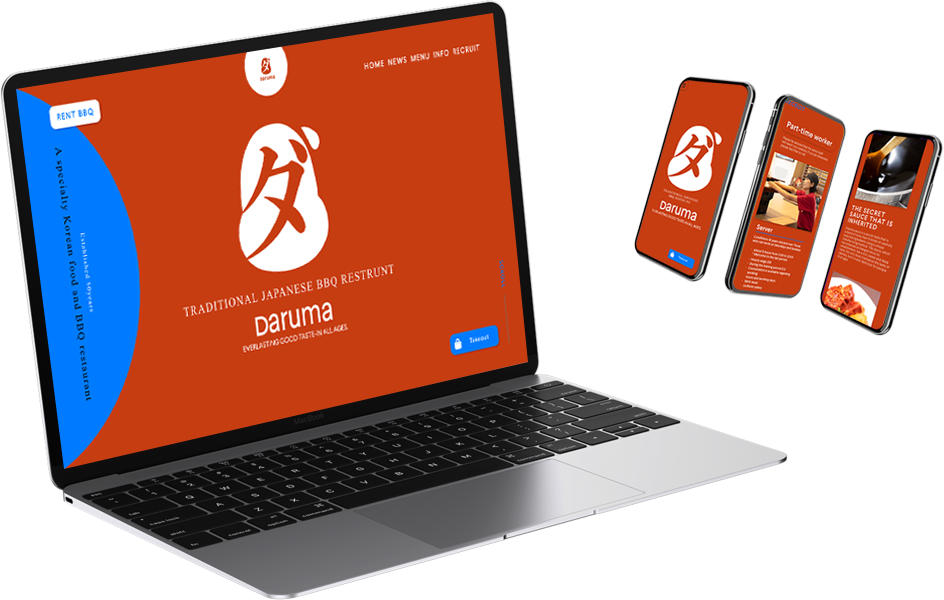
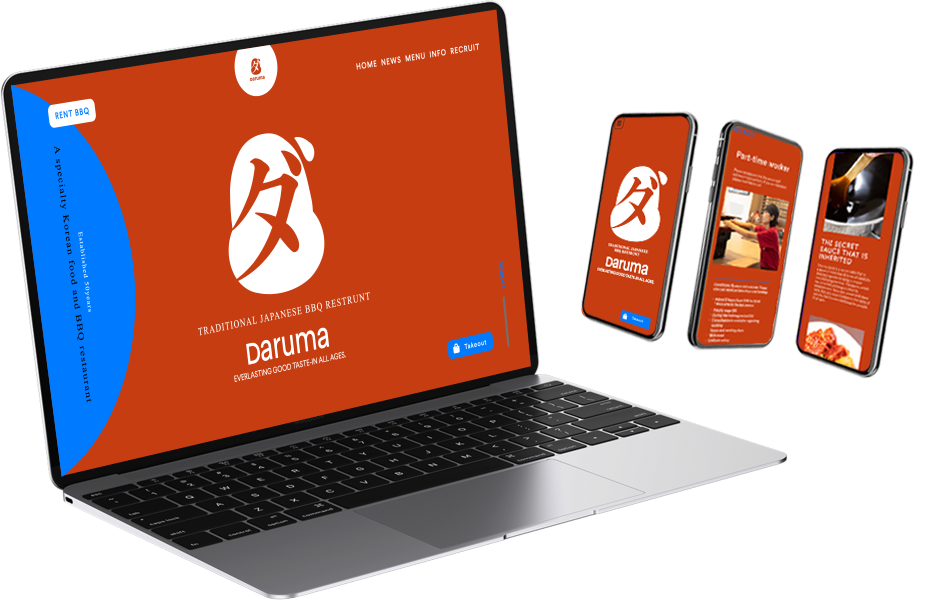
refine for responsible

diff --git a/portfolio/src/components/TitleSection/TitleElements.js b/portfolio/src/components/TitleSection/TitleElements.js
@@ -19,11 +19,12 @@ export const TitleContainer = styled.div`
   }
 
   @media screen and (max-width: 970px) {
-    height: 1100px;
+    height: 100vh;
   }
 
   @media screen and (max-width: 540px) {
-    height: 100vh;
+    margin-bottom: 10rem;
+    height: 50vh;
   }
 `;
 
@@ -48,6 +49,14 @@ export const ImageContent = styled.div`
 export const Image = styled.img`
   max-width: 70%;
   height: auto;
+
+  @media screen and (max-width: 970px) {
+    max-width: 75%;
+  }
+
+  @media screen and (max-width: 520px) {
+    max-width: 85%;
+  }
 `;
 
 export const H1Content = styled.div`
@@ -104,21 +113,21 @@ export const PContent = styled.div`
 `;
 
 export const TitleP = styled.p`
-  color: #010606;
-  letter-spacing: 0.05em;
+  color: #888888;
+  letter-spacing: 0.1em;
   margin-left: auto;
   font-size: 24px;
   font-weight: 300;
   text-align: left;
-  max-width: 525px;
+  max-width: 500px;
 
   @media screen and (max-width: 970px) {
     font-size: 16px;
-    max-width: 350px;
+    max-width: 285px;
   }
 
   @media screen and (max-width: 520px) {
     font-size: 14px;
-    max-width: 200px;
+    max-width: 190px;
   }
 `;

diff --git a/portfolio/src/components/PicDaruma/PicDarumaElements.js b/portfolio/src/components/PicDaruma/PicDarumaElements.js
@@ -1,9 +1,5 @@
 import styled from "styled-components";
 
-export const Image = styled.img`
-  width: 45%;
-`;
-
 export const PicDarumaContainer = styled.div`
   height: 800px;
   display: flex;
@@ -11,8 +7,28 @@ export const PicDarumaContainer = styled.div`
   justify-content: center;
   align-items: center;
   background: #47a0ff;
-  
-  @media screen and (max-width: 768px) {
-    height: 100vh;
+
+  @media screen and (max-width: 970px) {
+    height: 80vh;
+  }
+
+  @media screen and (max-width: 520px) {
+    height: 70vh;
+  }
+`;
+
+export const Image = styled.img`
+  width: 38%;
+
+  @media screen and (min-width: 1441px) {
+    width: 33%;
+  }
+
+  @media screen and (max-width: 970px) {
+    width: 60%;
+  }
+
+  @media screen and (max-width: 520px) {
+    width: 70%;
   }
 `;

diff --git a/portfolio/src/components/PicVector/PicVectorElements.js b/portfolio/src/components/PicVector/PicVectorElements.js
@@ -1,9 +1,5 @@
 import styled from "styled-components";
 
-export const Image = styled.img`
-  width: 35%;
-`;
-
 export const PicVectorContainer = styled.div`
   height: 800px;
   background: #ffd96e;
@@ -12,7 +8,27 @@ export const PicVectorContainer = styled.div`
   justify-content: center;
   align-items: center;
 
-  @media screen and (max-width: 768px) {
-    height: 100vh;
+  @media screen and (max-width: 970px) {
+    height: 80vh;
+  }
+
+  @media screen and (max-width: 520px) {
+    height: 70vh;
+  }
+`;
+
+export const Image = styled.img`
+  width: 35%;
+
+  @media screen and (min-width: 1441px) {
+    width: 30%;
+  }
+
+  @media screen and (max-width: 970px) {
+    width: 60%;
+  }
+
+  @media screen and (max-width: 520px) {
+    width: 65%;
   }
 `;

diff --git a/portfolio/src/components/PicLarry/PicLarryElements.js b/portfolio/src/components/PicLarry/PicLarryElements.js
@@ -1,9 +1,5 @@
 import styled from "styled-components";
 
-export const Image = styled.img`
-  width: 45%;
-`;
-
 export const PicLarryContainer = styled.div`
   height: 800px;
   display: flex;
@@ -17,8 +13,28 @@ export const PicLarryContainer = styled.div`
     #ff8f3b 50%,
     #ff8f3b 100%
   );
-  
-  @media screen and (max-width: 768px) {
-    height: 100vh;
+
+  @media screen and (max-width: 970px) {
+    height: 80vh;
+  }
+
+  @media screen and (max-width: 520px) {
+    height: 70vh;
+  }
+`;
+
+export const Image = styled.img`
+  width: 45%;
+
+  @media screen and (min-width: 1441px) {
+    width: 33%;
+  }
+
+  @media screen and (max-width: 970px) {
+    width: 65%;
+  }
+
+  @media screen and (max-width: 520px) {
+    width: 75%;
   }
 `;

diff --git a/portfolio/src/components/InfoSection/InfoElements.js b/portfolio/src/components/InfoSection/InfoElements.js
@@ -5,12 +5,6 @@ export const InfoContainer = styled.div`
   color: #fff;
   background: ${({ lightBg }) =>
     lightBg ? "rgb(255, 255, 255)" : "rgba(218, 218, 218, 1)"};
-
-  @media screen and (max-width: 970px) {
-  }
-
-  @media screen and (max-width: 520px) {
-  }
 `;
 
 export const InfoWrapper = styled.div`
@@ -65,13 +59,11 @@ export const Column2 = styled.div`
 export const TextWrapper = styled.div`
   max-width: 540px;
   padding-top: 0;
-  padding-bottom: 60px;
 `;
 
 export const TextWrapperR = styled.div`
   max-width: 540px;
   padding-top: 0;
-  padding-bottom: 60px;
 `;
 
 export const TopLine = styled.p`

diff --git a/portfolio/src/components/Footer/FooterElements.js b/portfolio/src/components/Footer/FooterElements.js
@@ -26,6 +26,10 @@ export const FooterWrap = styled.div`
   @media screen and (max-width: 970px) {
     max-width: 600px;
   }
+
+  @media screen and (max-width: 520px) {
+    margin-top: 4rem;
+  }
 `;
 
 export const FooterLinksContainer = styled.div`
@@ -46,6 +50,10 @@ export const FooterLinkTitle = styled.h1`
   font-size: 48px;
   margin-right: auto;
   margin-bottom: 20px;
+  }
+
+  @media screen and (max-width: 520px) {
+    font-size: 32px;
   }
 `;
 
